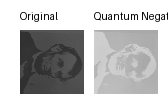
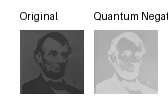
Update main execution to use new text file and remove obsolete lincon.txt

diff --git a/f.py b/f.py
@@ -95,7 +95,7 @@ def calculate_mse(image1, image2):
 
 # --- Main Execution ---
 if __name__ == "__main__":
-    text_file = "lincon.txt"
+    text_file = "lincon_rotated.txt"
 
     print("\nReading text and converting to grayscale image...")
     ascii_matrix = text_file_to_grayscale_matrix(text_file)
